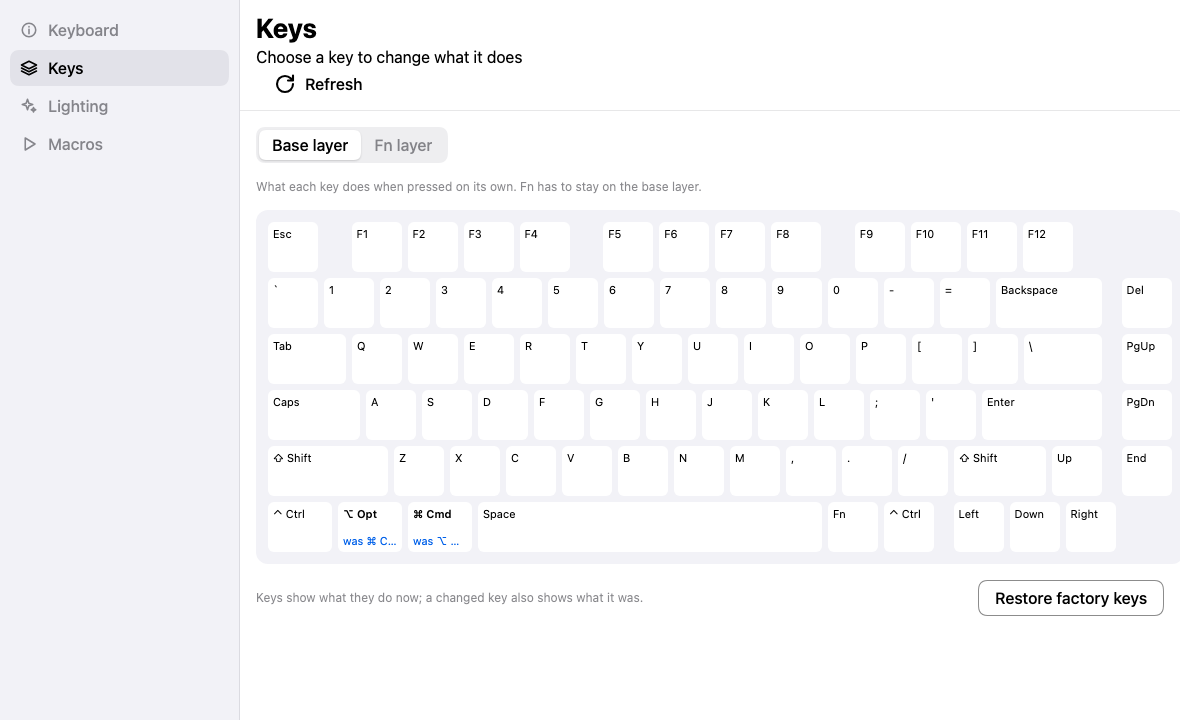
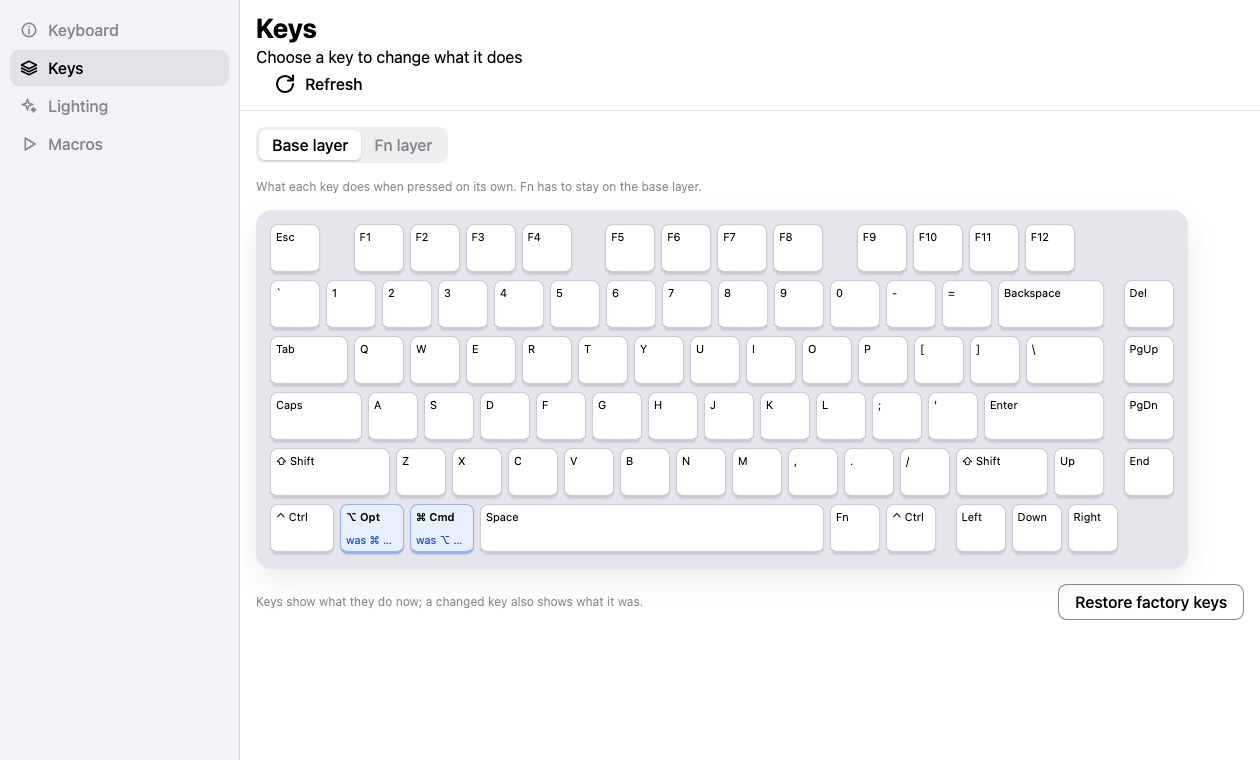
Link previews: OG/Twitter tags and a 1200x630 image for both sites
- site: og:/twitter: tags, og.png (1200x630), favicon, canonical URL
- web app: deploy.sh adds the same tags (deploy/web-meta.html) to Exact's page
  and swaps its placeholder icon for the R75 favicon
- Site screenshots re-taken with the new keycap look (1260x760)

diff --git a/site/index.html b/site/index.html
@@ -6,6 +6,30 @@
     <title>Remap75 — remap keys, macros and lighting for the AULA 75 (F75)</title>
     <meta name="description" content="Remap75 is an independent configurator for the AULA 75 (AULA F75) keyboard. Not affiliated with AULA. Remap keys with Mac names, build shortcuts and macros, and set lighting — from a Mac app or straight from Chrome." />
     <meta name="color-scheme" content="light dark" />
+    <meta name="theme-color" content="#0b0b0e" />
+    <link rel="canonical" href="https://remap75.app/" />
+    <link rel="icon" type="image/svg+xml" href="/favicon.svg" />
+
+    <!-- Link previews (Open Graph: Facebook, LinkedIn, iMessage, Slack, Discord, WhatsApp…) -->
+    <meta property="og:type" content="website" />
+    <meta property="og:site_name" content="Remap75" />
+    <meta property="og:url" content="https://remap75.app/" />
+    <meta property="og:title" content="Remap75 — your keyboard, your keys" />
+    <meta property="og:description" content="Remap keys, shortcuts, macros and lighting on the AULA 75 — free and open source, on your Mac or right in Chrome. Not affiliated with AULA." />
+    <meta property="og:image" content="https://remap75.app/og.png" />
+    <meta property="og:image:secure_url" content="https://remap75.app/og.png" />
+    <meta property="og:image:type" content="image/png" />
+    <meta property="og:image:width" content="1200" />
+    <meta property="og:image:height" content="630" />
+    <meta property="og:image:alt" content="Remap75: the Keys screen with the left Command and Option keys swapped" />
+    <meta property="og:locale" content="en_US" />
+
+    <!-- X / Twitter -->
+    <meta name="twitter:card" content="summary_large_image" />
+    <meta name="twitter:title" content="Remap75 — your keyboard, your keys" />
+    <meta name="twitter:description" content="Remap keys, shortcuts, macros and lighting on the AULA 75 — free and open source, on your Mac or right in Chrome." />
+    <meta name="twitter:image" content="https://remap75.app/og.png" />
+    <meta name="twitter:image:alt" content="Remap75: the Keys screen with the left Command and Option keys swapped" />
   </head>
   <body>
     <div id="root"></div>

diff --git a/deploy/web-meta.html b/deploy/web-meta.html
@@ -1,0 +1,16 @@
+<meta name="description" content="Remap keys, shortcuts, macros and lighting on your AULA 75, right in Chrome. Free and open source; not affiliated with AULA.">
+<meta property="og:type" content="website">
+<meta property="og:site_name" content="Remap75">
+<meta property="og:url" content="https://web.remap75.app/">
+<meta property="og:title" content="Remap75 web app — change your AULA 75's keys in Chrome">
+<meta property="og:description" content="Remap keys, shortcuts, macros and lighting on your AULA 75, right in Chrome. Nothing to install.">
+<meta property="og:image" content="https://remap75.app/og.png">
+<meta property="og:image:type" content="image/png">
+<meta property="og:image:width" content="1200">
+<meta property="og:image:height" content="630">
+<meta property="og:image:alt" content="Remap75: the Keys screen with the left Command and Option keys swapped">
+<meta name="twitter:card" content="summary_large_image">
+<meta name="twitter:title" content="Remap75 web app — change your AULA 75's keys in Chrome">
+<meta name="twitter:description" content="Remap keys, shortcuts, macros and lighting on your AULA 75, right in Chrome. Nothing to install.">
+<meta name="twitter:image" content="https://remap75.app/og.png">
+<link rel="icon" type="image/svg+xml" href="https://remap75.app/favicon.svg">

diff --git a/site/src/App.tsx b/site/src/App.tsx
@@ -141,8 +141,8 @@ function Hero() {
           <img
             src="/img/keys.png"
             alt="The Keys screen: the left Command and Option keys swapped, each showing what it was"
-            width={1180}
-            height={720}
+            width={1260}
+            height={760}
             className="block h-auto w-full"
           />
         </div>
